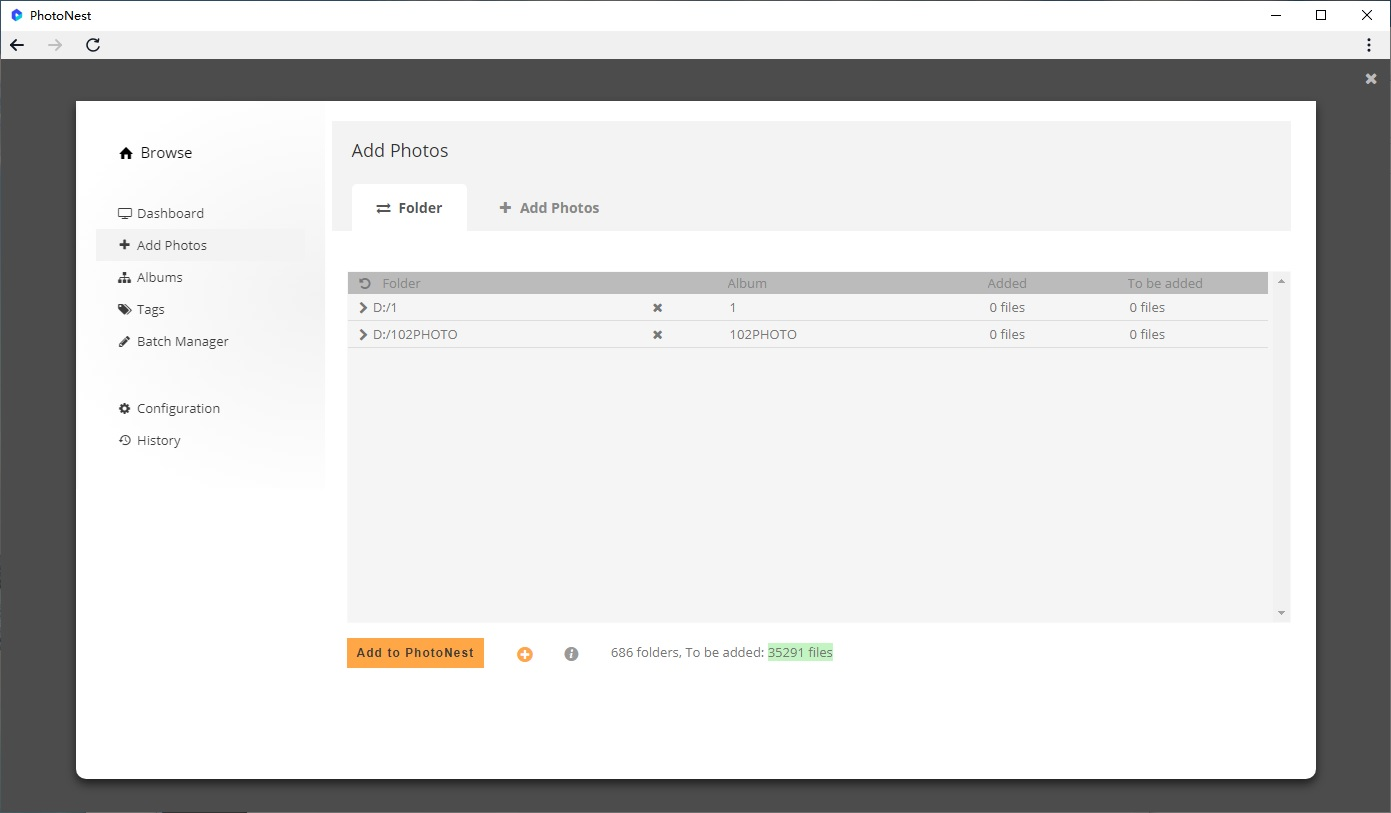
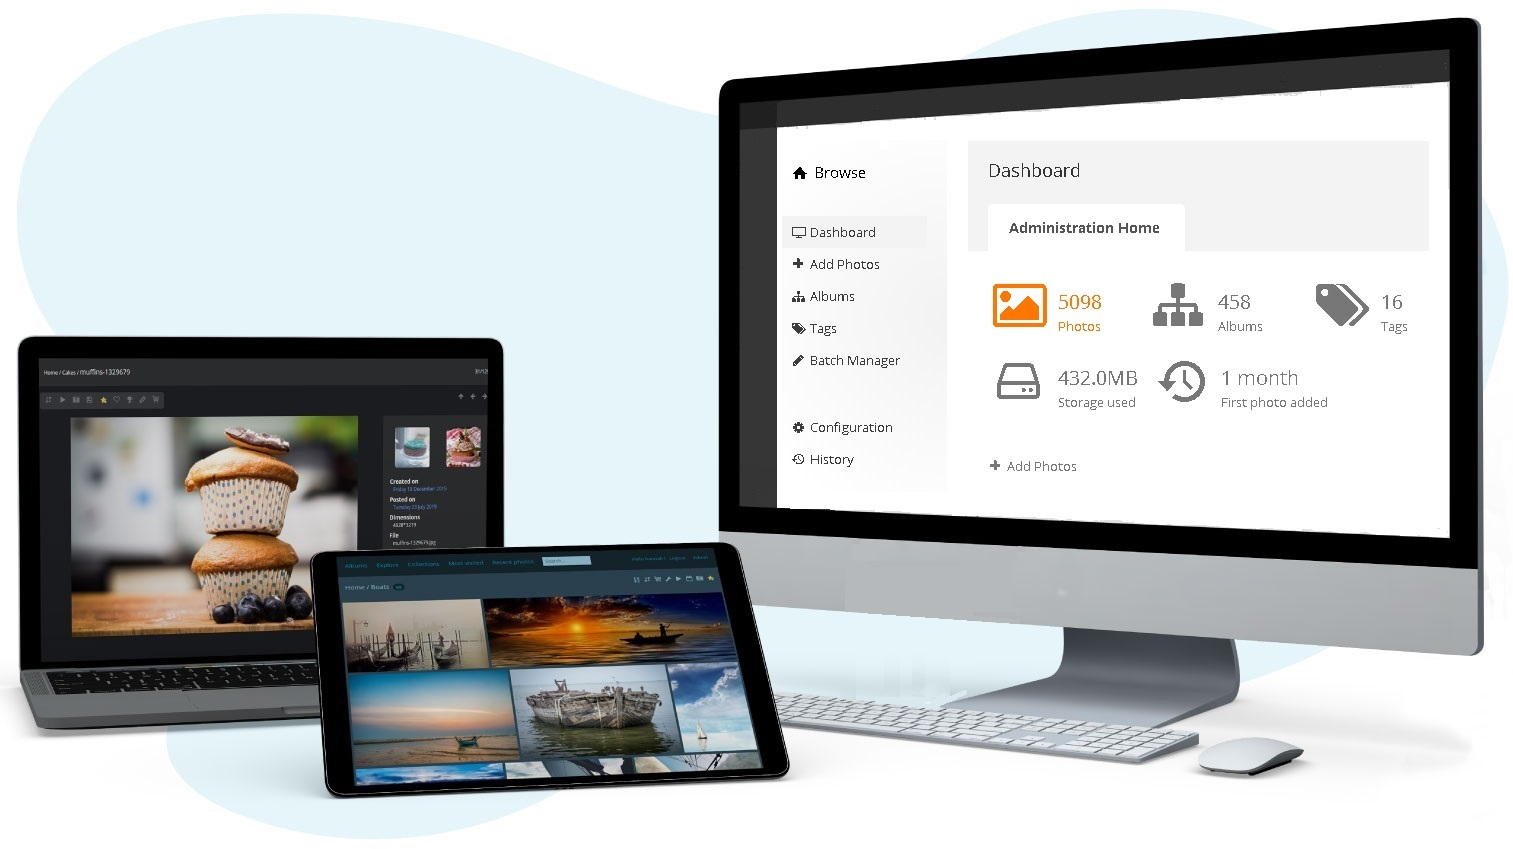
1

diff --git a/public/index.html b/public/index.html
@@ -87,7 +87,7 @@
                     <div class="col-md-6 col-xs-12 pwg-tagline" style="width:100%;">
 
                         <h1 class="svelte-hq7bev">
-                            <span id="banner_1">Your image library software.<br> Simple and affordable.</span>
+                            <span id="banner_1">Your image library software.<br> Simple and secure.</span>
                         </h1>
                         <p id="banner_2">
                             Is your media library a mess? With PhotoNest, you can centrally manage all your media files.
@@ -134,7 +134,7 @@
                                 <span id="special_1">Privacy is paramount</span>
                             </h3>
                             <p id="detail_1">
-                                Local storage, quick import, no need to upload to the web, simple and secure. One of the encrypted versions, only those who know the correct password can unlock and access the photos in the album.
+                                Local storage, quick import, no need to upload to the web. One of the encrypted versions, only those who know the correct password can unlock and access the photos in the album.
                             </p>
                         </div>
                     </div>
